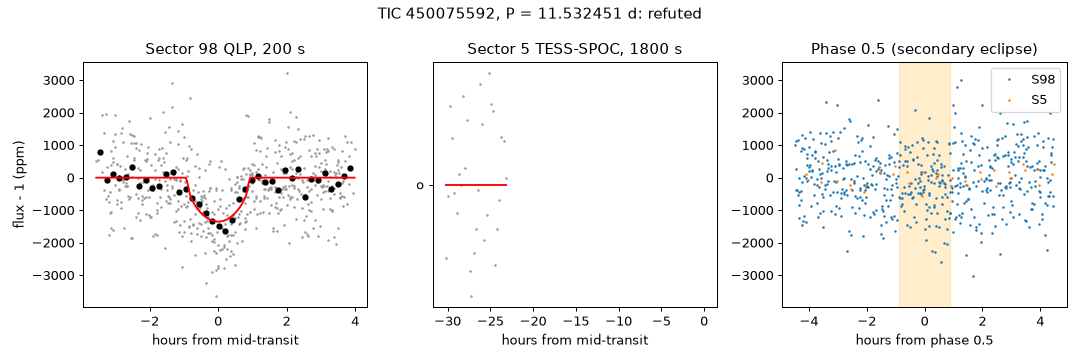
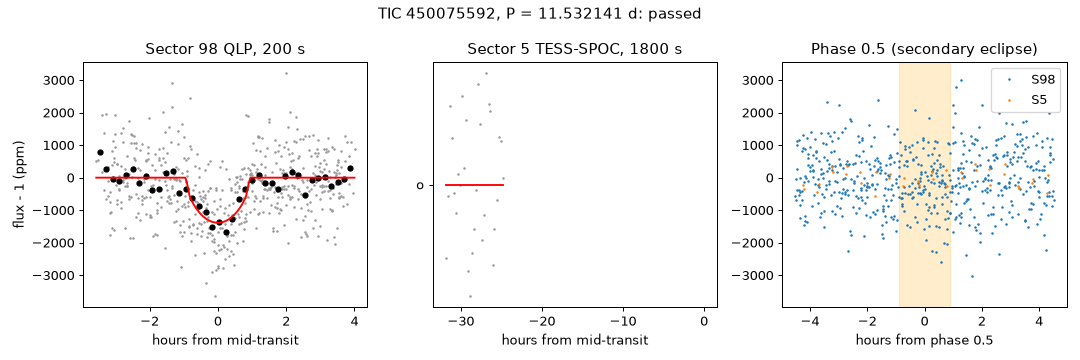
Verify the Sector 98 candidates over all sectors again, with the ellipsoidal, LAMOST fibre and Gaia RV mass checks

diff --git a/results/candidate_verification_records/tic220027980_period_2.85220_days.md b/results/candidate_verification_records/tic220027980_period_2.85220_days.md
@@ -7,3 +7,4 @@
 | 2026-10-13 13:22 | 98 | pixel check | check_qlp_sector_candidate_pixels.py | 9674c6b | on target | S4 error: ValueError: only 0 usable transits in the cutout; S5 error: ValueError: only 0 usable transits in the cutout; S6 error: ValueError: only 0 usable transits in the cutout; S31 too faint (SNR 1.5, best star Gaia DR3 4800249823050244736); S32 too faint (SNR 1.9, best star Gaia DR3 4800249999145500928); S33 too faint (SNR 2.5, best star Gaia DR3 4800249689905726464); S98 on target (SNR 5.7, best star TIC 220027980) |
 | 2026-10-13 13:42 | 98 | all-sector verification | verify_qlp_sector_candidates_over_all_sectors.py | 9674c6b | refuted | sectors 98 4 5 6 31 32 33; P 2.8515098 +/- 0.00528653 d; T0 4003.22822 +/- 0.032721 BTJD; depth 780 +/- 2410 ppm; duration 1.919 h; b 0.649; Rp 5.33 +/- 19.74 Earth radii; density ratio 3; odd-even 3.64 sigma; sector depths S4: 314 +/- 67; S5: 493 +/- 62; S6: 474 +/- 68; S31: 285 +/- 66; S32: 353 +/- 67; S33: 303 +/- 66 (p 0.0834); secondary 96 +/- 41 ppm (planet maximum 15); Gaia RV variable True; LAMOST: none; refuted by: odd and even depths differ; cautions: depths differ between sectors; Gaia radial velocity variable |
 | 2026-10-15 18:04 | 98 | search, vetting and known-signal cross-match | cross_match_qlp_sector_signals_with_known_catalogues.py | c5b3cc7 | new candidate | BLS SNR 10.6, MES 9.6, depth 1024 ppm, 19 transits; passes the LEO-Vetter false alarm and false positive tests; no TOI, CTOI, TCE or TESS EB match in the catalogues of 2026-10-15 |
+| 2026-10-15 22:55 | 98 | all-sector verification | verify_qlp_sector_candidates_over_all_sectors.py | c651077 | refuted | sectors 98 4 5 6 31 32 33; P 2.8514910 +/- 0.00315993 d; T0 4003.21282 +/- 0.035848 BTJD; depth 768 +/- 2037 ppm; duration 1.915 h; b 0.402; Rp 3.63 +/- 18.56 Earth radii; density ratio 3.45; odd-even 3.87 sigma; sector depths S98: 3560 +/- 1905; S4: 549 +/- 117; S5: 866 +/- 108; S6: 853 +/- 119; S31: 615 +/- 115; S32: 765 +/- 117; S33: 645 +/- 116 (p 0.184); secondary 72 +/- 41 ppm (planet maximum 6); ellipsoidal -43 +/- 57 ppm (companion mass -0.0578 solar masses); Gaia RV variable True, companion mass below 0.117 solar masses; LAMOST: none; refuted by: odd and even depths differ; cautions: depths differ between sectors; Gaia radial velocity variable |

diff --git a/results/candidate_verification_records/tic264626874_period_6.25957_days.md b/results/candidate_verification_records/tic264626874_period_6.25957_days.md
@@ -8,3 +8,4 @@
 | 2026-10-13 13:40 | 98 | all-sector verification | verify_qlp_sector_candidates_over_all_sectors.py | 9674c6b | passed | sectors 98 32; P 6.2599679 +/- 0.00000448 d; T0 4011.98311 +/- 0.001083 BTJD; depth 3141 +/- 50 ppm; duration 5.484 h; b 0.746; Rp 17.69 +/- 0.89 Earth radii; density ratio 0.964; odd-even 1.30 sigma; sector depths S98: 2779 +/- 57; S32: 3395 +/- 46 (p 2.76e-17); secondary -18 +/- 34 ppm (planet maximum 158); Gaia RV variable False; LAMOST: 2014-01-17 STAR A1V, RV -14 +/- 0.2 km/s, SNR g 504; refuted by: nothing; cautions: none |
 | 2026-10-13 14:42 | 98 | TRICERATOPS | validate_qlp_sector_candidates_with_triceratops.py | 9674c6b | validated without imaging | sectors 98 32; FPP 0.01475 +/- 0.023; NFPP 0 +/- 0; most likely scenario TP on TIC 264626874; nearby scenarios excluded: True; 5 runs |
 | 2026-10-15 18:04 | 98 | search, vetting and known-signal cross-match | cross_match_qlp_sector_signals_with_known_catalogues.py | c5b3cc7 | new candidate | BLS SNR 43.5, MES 38.9, depth 1671 ppm, 7 transits; passes the LEO-Vetter false alarm and false positive tests; no TOI, CTOI, TCE or TESS EB match in the catalogues of 2026-10-15 |
+| 2026-10-15 22:52 | 98 | all-sector verification | verify_qlp_sector_candidates_over_all_sectors.py | c651077 | passed | sectors 98 32; P 6.2599674 +/- 0.00000444 d; T0 4011.98303 +/- 0.001072 BTJD; depth 3140 +/- 51 ppm; duration 5.478 h; b 0.743; Rp 17.67 +/- 0.89 Earth radii; density ratio 0.977; odd-even 1.30 sigma; sector depths S98: 2775 +/- 57; S32: 3391 +/- 46 (p 2.7e-17); secondary -19 +/- 34 ppm (planet maximum 156); ellipsoidal 163 +/- 46 ppm (companion mass 0.106 solar masses); Gaia RV variable False, companion mass below 0.264 solar masses; LAMOST: 2014-01-17 STAR A1V at 0.0 arcsec, fibre on the target, RV -14 +/- 0.2 km/s, SNR g 504; 2014-01-17 STAR A2V at 4.6 arcsec, no Gaia source in the fibre, RV -20 +/- 0.2 km/s, SNR g 67; refuted by: nothing; cautions: ellipsoidal variation detected |

diff --git a/results/candidate_verification_records/tic450075592_period_11.53197_days.md b/results/candidate_verification_records/tic450075592_period_11.53197_days.md
@@ -7,3 +7,4 @@
 | 2026-10-13 13:05 | 98 | pixel check | check_qlp_sector_candidate_pixels.py | 9674c6b | on target | S5 error: ConnectionError: ('Connection aborted.', RemoteDisconnected('Remote end closed connection without response')); S98 on target (SNR 6.3, best star TIC 450075592) |
 | 2026-10-13 13:40 | 98 | all-sector verification | verify_qlp_sector_candidates_over_all_sectors.py | 9674c6b | refuted | sectors 98 5; P 11.5324515 +/- 0.00845308 d; T0 4016.47915 +/- 0.069076 BTJD; depth 1321 +/- 500 ppm; duration 1.790 h; b 0.450; Rp 4.96 +/- 0.73 Earth radii; density ratio 21.7; odd-even 0.32 sigma; sector depths S98: 1331 +/- 85 (p nan); secondary 223 +/- 73 ppm (planet maximum 1); Gaia RV variable True; LAMOST: none; refuted by: secondary eclipse too deep for a planet; cautions: stellar density does not fit the star; depths differ between sectors; Gaia radial velocity variable |
 | 2026-10-15 18:04 | 98 | search, vetting and known-signal cross-match | cross_match_qlp_sector_signals_with_known_catalogues.py | c5b3cc7 | new candidate | BLS SNR 12.9, MES 12.6, depth 979 ppm, 5 transits; passes the LEO-Vetter false alarm and false positive tests; no TOI, CTOI, TCE or TESS EB match in the catalogues of 2026-10-15 |
+| 2026-10-15 22:52 | 98 | all-sector verification | verify_qlp_sector_candidates_over_all_sectors.py | c651077 | passed | sectors 98 5; P 11.5321413 +/- 0.00190010 d; T0 4016.47900 +/- 0.002973 BTJD; depth 1346 +/- 165 ppm; duration 1.809 h; b 0.476; Rp 5.07 +/- 0.83 Earth radii; density ratio 19.9; odd-even 0.34 sigma; sector depths S98: 1314 +/- 84 (p nan); secondary 171 +/- 70 ppm (planet maximum 1); ellipsoidal -43 +/- 76 ppm (companion mass -3.8 solar masses); Gaia RV variable True, companion mass below 0.533 solar masses; LAMOST: none; refuted by: nothing; cautions: stellar density does not fit the star; depths differ between sectors; Gaia radial velocity variable |

diff --git a/results/candidate_verification_records/tic4206066_period_11.13279_days.md b/results/candidate_verification_records/tic4206066_period_11.13279_days.md
@@ -8,3 +8,4 @@
 | 2026-10-13 13:40 | 98 | all-sector verification | verify_qlp_sector_candidates_over_all_sectors.py | 9674c6b | passed | sectors 98 6 32; P 11.1327324 +/- 0.00001343 d; T0 2197.36331 +/- 0.001984 BTJD; depth 1008 +/- 77 ppm; duration 1.571 h; b 0.522; Rp 2.11 +/- 0.29 Earth radii; density ratio 5.2; odd-even 1.12 sigma; sector depths S98: 1186 +/- 88; S6: 867 +/- 118; S32: 695 +/- 130 (p 0.00386); secondary 27 +/- 61 ppm (planet maximum 0); Gaia RV variable False; LAMOST: 2014-11-04 STAR dM1, RV -53 +/- 16.6 km/s, SNR g 1; refuted by: nothing; cautions: none |
 | 2026-10-13 14:50 | 98 | TRICERATOPS | validate_qlp_sector_candidates_with_triceratops.py | 9674c6b | likely planet | sectors 98 6 32; FPP 0.1656 +/- 0.02; NFPP 0 +/- 0; most likely scenario TP on TIC 4206066; nearby scenarios excluded: True; 5 runs |
 | 2026-10-15 18:04 | 98 | search, vetting and known-signal cross-match | cross_match_qlp_sector_signals_with_known_catalogues.py | c5b3cc7 | new candidate | BLS SNR 13.2, MES 11.0, depth 913 ppm, 4 transits; passes the LEO-Vetter false alarm and false positive tests; no TOI, CTOI, TCE or TESS EB match in the catalogues of 2026-10-15 |
+| 2026-10-15 22:53 | 98 | all-sector verification | verify_qlp_sector_candidates_over_all_sectors.py | c651077 | passed | sectors 98 6 32; P 11.1327317 +/- 0.00001334 d; T0 2197.36326 +/- 0.001892 BTJD; depth 1010 +/- 79 ppm; duration 1.571 h; b 0.503; Rp 2.09 +/- 0.28 Earth radii; density ratio 5.29; odd-even 1.14 sigma; sector depths S98: 1191 +/- 89; S6: 865 +/- 118; S32: 693 +/- 131 (p 0.00331); secondary 26 +/- 61 ppm (planet maximum 0); ellipsoidal 81 +/- 393 ppm (companion mass 5.26 solar masses); Gaia RV variable False, companion mass below 0.00965 solar masses; LAMOST: 2014-11-04 STAR dM1 at 1.7 arcsec, fibre on the target, RV -53 +/- 16.6 km/s, SNR g 1; refuted by: nothing; cautions: none |

diff --git a/results/candidate_verification_records/tic220073982_period_0.63450_days.md b/results/candidate_verification_records/tic220073982_period_0.63450_days.md
@@ -8,3 +8,4 @@
 | 2026-10-13 13:47 | 98 | all-sector verification | verify_qlp_sector_candidates_over_all_sectors.py | 9674c6b | passed | sectors 98 6 32; P 0.6340068 +/- 0.00000148 d; T0 2188.37865 +/- 0.004496 BTJD; depth 184 +/- 23 ppm; duration 1.875 h; b 0.435; Rp 2.67 +/- 0.28 Earth radii; density ratio 1.66; odd-even 0.51 sigma; sector depths S98: 201 +/- 24; S6: 101 +/- 38; S32: 189 +/- 29 (p 0.0737); secondary 91 +/- 17 ppm (planet maximum 57); Gaia RV variable False; LAMOST: none; refuted by: nothing; cautions: secondary eclipse detected |
 | 2026-10-15 10:12 | 98 | TRICERATOPS | validate_qlp_sector_candidates_with_triceratops.py | 9674c6b | likely planet | sectors 98 6 32; FPP 0.09146 +/- 0.0032; NFPP 0 +/- 0; most likely scenario TP on TIC 220073982; nearby scenarios excluded: True; 5 runs |
 | 2026-10-15 18:04 | 98 | search, vetting and known-signal cross-match | cross_match_qlp_sector_signals_with_known_catalogues.py | c5b3cc7 | new candidate | BLS SNR 8.0, MES 7.8, depth 220 ppm, 45 transits; passes the LEO-Vetter false alarm and false positive tests; no TOI, CTOI, TCE or TESS EB match in the catalogues of 2026-10-15 |
+| 2026-10-15 23:00 | 98 | all-sector verification | verify_qlp_sector_candidates_over_all_sectors.py | c651077 | passed | sectors 98 6 32; P 0.6340068 +/- 0.00000158 d; T0 2188.37846 +/- 0.004711 BTJD; depth 184 +/- 22 ppm; duration 1.881 h; b 0.459; Rp 2.69 +/- 0.30 Earth radii; density ratio 1.59; odd-even 0.49 sigma; sector depths S98: 201 +/- 24; S6: 100 +/- 38; S32: 188 +/- 29 (p 0.0734); secondary 91 +/- 17 ppm (planet maximum 60); ellipsoidal -71 +/- 16 ppm (companion mass -0.00195 solar masses); Gaia RV variable False, companion mass below 0.15 solar masses; LAMOST: none; refuted by: nothing; cautions: secondary eclipse detected |

diff --git a/results/candidate_verification_records/tic332913693_period_1.50721_days.md b/results/candidate_verification_records/tic332913693_period_1.50721_days.md
@@ -8,3 +8,4 @@
 | 2026-10-13 13:41 | 98 | all-sector verification | verify_qlp_sector_candidates_over_all_sectors.py | 9674c6b | passed | sectors 98 6; P 1.5070549 +/- 0.00000236 d; T0 4015.78884 +/- 0.002642 BTJD; depth 471 +/- 29 ppm; duration 2.447 h; b 0.402; Rp nan +/- nan Earth radii; density ratio nan; odd-even 1.95 sigma; sector depths S98: 433 +/- 28; S6: 467 +/- 35 (p 0.45); secondary -14 +/- 21 ppm (planet maximum nan); Gaia RV variable False; LAMOST: none; refuted by: nothing; cautions: stellar density does not fit the star |
 | 2026-10-13 17:02 | 98 | TRICERATOPS | validate_qlp_sector_candidates_with_triceratops.py | 9674c6b | not validated | sectors 98 6; FPP 0.5179 +/- 0.07; NFPP 0 +/- 0; most likely scenario BEBx2P on TIC 332913693; nearby scenarios excluded: True; 5 runs |
 | 2026-10-15 18:04 | 98 | search, vetting and known-signal cross-match | cross_match_qlp_sector_signals_with_known_catalogues.py | c5b3cc7 | new candidate | BLS SNR 15.2, MES 10.1, depth 296 ppm, 28 transits; passes the LEO-Vetter false alarm and false positive tests; no TOI, CTOI, TCE or TESS EB match in the catalogues of 2026-10-15 |
+| 2026-10-15 22:54 | 98 | all-sector verification | verify_qlp_sector_candidates_over_all_sectors.py | c651077 | passed | sectors 98 6; P 1.5070550 +/- 0.00000244 d; T0 4015.78914 +/- 0.002587 BTJD; depth 473 +/- 28 ppm; duration 2.438 h; b 0.390; Rp nan +/- nan Earth radii; density ratio nan; odd-even 1.97 sigma; sector depths S98: 433 +/- 28; S6: 467 +/- 35 (p 0.449); secondary -14 +/- 21 ppm (planet maximum nan); ellipsoidal -60 +/- 109 ppm (companion mass nan solar masses); Gaia RV variable False, companion mass below unknown solar masses; LAMOST: none; refuted by: nothing; cautions: stellar density does not fit the star |

diff --git a/results/candidate_verification_records/tic399756350_period_3.32134_days.md b/results/candidate_verification_records/tic399756350_period_3.32134_days.md
@@ -8,3 +8,4 @@
 | 2026-10-13 13:42 | 98 | all-sector verification | verify_qlp_sector_candidates_over_all_sectors.py | 9674c6b | passed | sectors 98 5 32; P 3.3225705 +/- 0.00000472 d; T0 4010.58281 +/- 0.002438 BTJD; depth 1784 +/- 134 ppm; duration 1.739 h; b 0.487; Rp 4.33 +/- 0.72 Earth radii; density ratio 2.86; odd-even 2.66 sigma; sector depths S98: 1568 +/- 146; S5: 1679 +/- 206; S32: 1994 +/- 184 (p 0.189); secondary -110 +/- 93 ppm (planet maximum 8); Gaia RV variable False; LAMOST: none; refuted by: nothing; cautions: none |
 | 2026-10-13 17:26 | 98 | TRICERATOPS | validate_qlp_sector_candidates_with_triceratops.py | 9674c6b | not validated | sectors 98 5 32; FPP 0.7931 +/- 0.012; NFPP 0 +/- 0; most likely scenario SEB on TIC 399756350; nearby scenarios excluded: True; 5 runs |
 | 2026-10-15 18:04 | 98 | search, vetting and known-signal cross-match | cross_match_qlp_sector_signals_with_known_catalogues.py | c5b3cc7 | new candidate | BLS SNR 12.2, MES 9.4, depth 1270 ppm, 13 transits; passes the LEO-Vetter false alarm and false positive tests; no TOI, CTOI, TCE or TESS EB match in the catalogues of 2026-10-15 |
+| 2026-10-15 22:55 | 98 | all-sector verification | verify_qlp_sector_candidates_over_all_sectors.py | c651077 | passed | sectors 98 5 32; P 3.3225704 +/- 0.00000434 d; T0 4010.58281 +/- 0.002290 BTJD; depth 1801 +/- 133 ppm; duration 1.783 h; b 0.667; Rp 4.68 +/- 1.10 Earth radii; density ratio 1.96; odd-even 2.69 sigma; sector depths S98: 1626 +/- 152; S5: 1749 +/- 215; S32: 2068 +/- 191 (p 0.189); secondary -125 +/- 91 ppm (planet maximum 12); ellipsoidal 11 +/- 58 ppm (companion mass 0.0195 solar masses); Gaia RV variable False, companion mass below 0.027 solar masses; LAMOST: none; refuted by: nothing; cautions: none |
